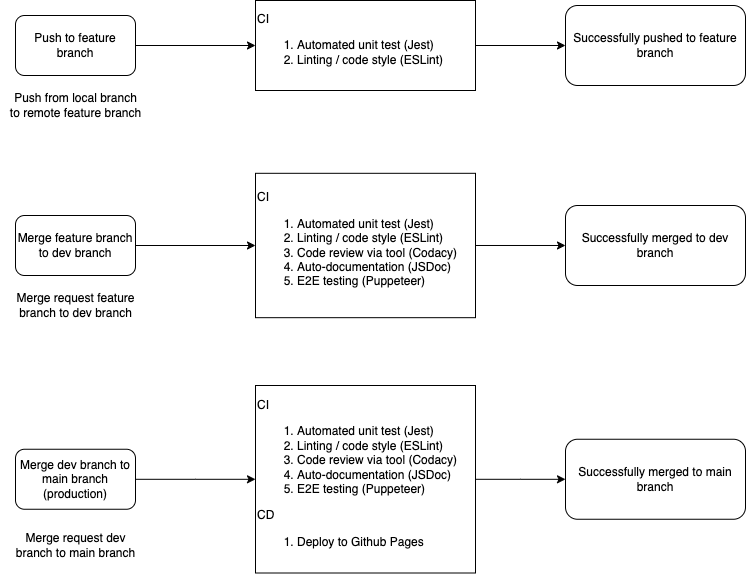
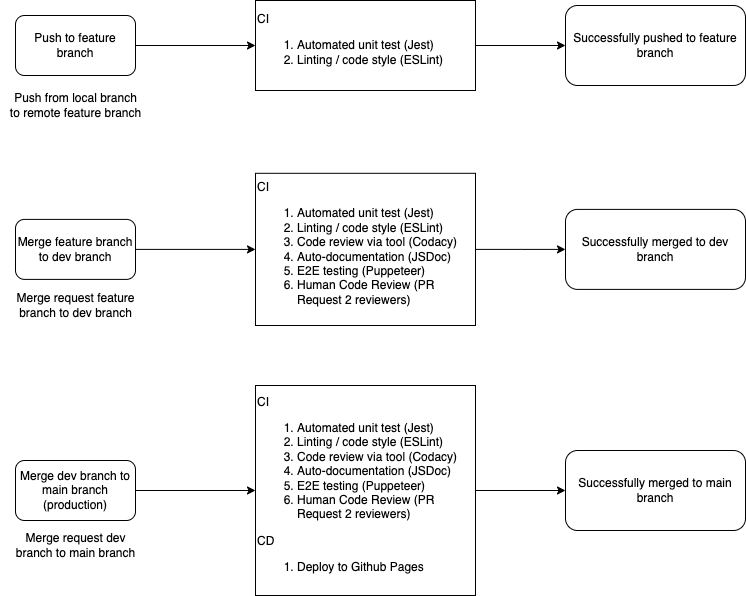
Issue #12: Edit cicd writeup file

diff --git a/admin/cipipeline/cicd.md b/admin/cipipeline/cicd.md
@@ -2,56 +2,71 @@
 
 A diagram of our current pipeline can be seen below: ![current pipeline](./cicd.png)
 
-### Linting via automation and local development:
-Our current pipeline consists of a linting procedure which is done by eslint named `CI - Linter` on github actions. The procedure is activated by github actions on all branches whenever on `push` and `pull request` to `dev` and `main`. More specifically, we specified eslint with the linter configurations from **both** google and eslint:recommended. A complete set of linting/style checks can be found [here](https://github.com/google/eslint-config-google/blob/master/index.js). There is also a pipeline folder located at the root of the repository which locates the config file of the linting procedure, which overrides several rules. Some of which are jsdocs to warning and unused variable as warnings instead of errors. This is because we forsee that we will have the functions and the jsdocs written out before the body of the javascript file is written out. Jsdocs are also warning because we don't want people be stuck on writing out documentation for every function they use (when they push), in the case that their version of the code isn't used. Linting rules can be revised further during development. For developers, they should run `npx eslint --config ./pipeline/.eslintrc.yml ./source/js` to see warning and errors if they want to see their styling errors. Adding `--fix` tag while running eslint locally will fix most errors.  An example of it working is ![code linting](./linter_example/linter_code_example.png) ![linting output](./linter_example/linter_output_example.png), where we can see that `foo` has various errors, and `hello` fixes all of said errors/warnings. By default, the github action is only looking to take javascript files in ./source/js.
+### Linting via Automation and Local Development:
 
+Our current pipeline consists of a linting procedure which is done by eslint named `CI - Linter` on Github Actions. The procedure is activated by github actions on all branches whenever the actions `push` and `pull request` are made to the `dev` and `main` branches. More specifically, we specified eslint with the linter configurations from **both** google and eslint:recommended. A complete set of linting/style checks can be found [here](https://github.com/google/eslint-config-google/blob/master/index.js).
 
-### Code Quality via Tool
-Currently, our pipeline checks code quality via the tool Codacy through the `Codacy Analysis CLI` workflow. This workflow is triggered when pushes are made to the `main`, `dev`, and `cicd_codequalitytool` and pull requests are made to `main` and `dev`. Upon activation of the workflow, Codacy checks out the specific branch or commit that triggered the workflow and performs a static code analysis of the files for that specific branch/commit. Depending on the Codacy configuration, Codacy will identify issues in several areas like code style violations, security vulnerabilities, overly complex code, and duplicated code.
+There is also a pipeline folder located at the root of the repository which locates the config file of the linting procedure, which overrides several rules. Some of which are jsdocs to warning and unused variable as warnings instead of errors. This is because we forsee that we will have the functions and the jsdocs written out before the body of the javascript file is written out. Jsdocs are also set as warnings because we don't want people be stuck on writing out documentation for every function they use (when they push), in the case that their version of the code isn't used. Linting rules can also be revised further during development. 
+ 
+For developers, they should run `npx eslint --config ./pipeline/.eslintrc.yml ./source/js` to see warning and errors if they want to see their styling errors. Adding `--fix` tag while running eslint locally will fix most errors.  An example of it working is shown below, where we can see that `foo` has various errors, and `hello` fixes all of said errors/warnings: ![code linting](./linter_example/linter_code_example.png) ![linting output](./linter_example/linter_output_example.png)
+ 
+By default, the github action for linting is only looking to take javascript files in ./source/js.
 
+### Code Quality via Tool:
 
-### Code Quality via human review
-At present we have implemented a ruleset in GitHub that restricts the push and pull requests to main and dev branches. These branches are protected from deletion and require all commits be made to a non-target branch and submitted via a pull request before they can be merged. Also requires two approving reviews before a pull request can be merged.
+Our pipeline currently checks code quality via the tool Codacy through the `Codacy Analysis CLI` workflow. This workflow is triggered when pushes are made to the `main` and  `dev` branches, and when pull requests are made to `main` and `dev`. Upon activation of the workflow, Codacy checks out the specific branch or commit that triggered the workflow and performs a static code analysis of the specific files involved. Depending on the Codacy configuration, Codacy will identify issues in several areas like code style violations, security vulnerabilities, overly complex code, and duplicated code.
 
-### Documentation generation via automation:
+Currently, Codacy is configured to run with default rules, and assumes that we are using ES6 syntax when it provides its analysis. The rules and what we want Codacy to evaluate as part of its analysis can be configured later to be more specific to our application, once we have started development on the application itself.
 
-The "Generate JSDoc Documentation" GitHub Action automates the creation of HTML documentation from JavaScript code annotations using the JSDoc tool. Triggered by events such as pushes to specified branches (currently main, dev, and cicd_documentation) or pull requests to main and dev, this workflow streamlines documentation processes. Upon activation, the action installs Node.js and JSDoc, then generates documentation from JavaScript files located in the test folder, which is planned to be updated to the actual script folder. The generated documentation is placed in an "out" folder and is presently uploaded as an artifact within the GitHub workflow.
+### Code Quality via Human Review:
 
+At present we have implemented a ruleset in GitHub that restricts the push and pull requests to main and dev branches. These branches are protected from deletion and require all commits be made to a non-target branch and submitted via a pull request before they can be merged. We also require two reviewers to approve the request before a pull request can be merged.
 
+### Documentation Generation via Automation:
 
-### Unit Tests via automation
+The pipeline currently includes automatic document generation. The "Generate JSDoc Documentation" GitHub Action automates the creation of HTML documentation from JavaScript code annotations using the JSDoc tool. This workflow is triggered by events such as pushes to specified branches (`main` and `dev`) or pull requests to `main` and `dev`, and streamlines documentation processes. Currently, upon activation of the worflow, the action installs Node.js and JSDoc, then generates documentation from the JavaScript files located in the test folder. The generated documentation is then placed in an "out" folder and is presently uploaded as an artifact within the GitHub workflow. This test folder will be updated to the actual script folder once we begin development on our application. Currently, the test folder was used to ensure the tool works correctly.
 
-The “Unit Tests” GitHub Action automates unit tests with Jest as the test framework. It is triggered by pushes to branches (such as main and dev), as well as pull requests to main and dev. Upon activation, this action checks out the branch, installs Jest, and runs a script to run every Jest unit test found in the repository, namely those found in the test/ folder. Once the tests have been completed, the results are displayed in the action page, indicating pass or failure. Currently, Jest interprets code as Common JS instead of ES6, which is currently not consistent with our other CI/CD workflows which assume ES6 formatting. As a result, further discussion must be made to determine which format the project must follow in order to avoid incorrect formatting issues.
+### Unit Testing via Automation:
 
-### End to End testing via automation
+We integrate unit testing into our pipeline through the “Unit Tests” GitHub Action which automates unit tests with Jest as the test framework. It is triggered by pushes to the `main`, `dev`, and feature branches, as well as pull requests to `main` and `dev`. Upon activation, this action checks out the branch, installs Jest, and runs a script to run every Jest unit test found in the repository, namely those found in the test/ folder. Once the tests have been completed, the results are displayed in the action page, indicating pass or failure. Currently, Jest interprets code as Common JS instead of ES6, which is currently not consistent with our other CI/CD workflows which assume ES6 formatting. As a result, further discussion must be made to determine which format the project must follow in order to avoid incorrect formatting issues.
 
-This CI/CD pipeline for E2E testing is implemented using GitHub Actions to automate the validation of application functionality. It is triggered by pushes or pull requests to specific branches (main, dev, and cicd_e2e_testing). The pipeline begins by checking out the repository and setting up a Node.js environment. It then installs project dependencies(puppeteer).The E2E tests are executed using a designated script (node test/source.js). Additionally, a failure annotation is added to notify developers about issues, ensuring swift debugging. This workflow ensures consistent testing, integration with the development process, and clear visibility of test results.
+### End to End Testing via Automation:
 
-### GithubPages Deployment via automation
+The CI/CD pipeline for E2E testing is implemented using GitHub Actions to automate the validation of application functionality. It is triggered by pushes or pull requests to specific branches (`main` and `dev`). The pipeline begins by checking out the repository and setting up a Node.js environment. It then installs project dependencies(Puppeteer).The E2E tests are executed using a designated script (`node test/source.js`). Additionally, a failure annotation is added to notify developers about issues, ensuring swift debugging. This workflow ensures consistent testing, integration with the development process, and clear visibility of test results.
 
-Our application is a static web app built with HTML, CSS, and JavaScript. Since it doesn’t require a JavaScript framework like React or VueJS, we needed a simple, reliable, and free platform to host and deploy the app. GitHub Pages allows TAs and our team to easily access, test, and interact with the application. The workflow, defined in .github/workflows/githubpage.yml, automates the deployment process. It triggers on pushes to the main or dev branches or pull requests targeting main. The pipeline consists of two main steps: First, the repository is checked out using actions/checkout@v4, and files are packaged as an artifact using actions/upload-pages-artifact@v3, with the artifact stored in the ./ directory. Then, in the deploy step, the artifact is pulled and deployed to GitHub Pages using actions/deploy-pages@v4. Once deployed, the app is accessible via the configured GitHub Pages URL (https://cse210-team-09.github.io/cse210-fa24-group09/).
+### GithubPages Deployment via Automation:
+
+Our application is a static web app built with HTML, CSS, and JavaScript. Since it doesn’t require a JavaScript framework like React or VueJS, we needed a simple, reliable, and free platform to host and deploy the app. GitHub Pages allows TAs and our team to easily access, test, and interact with the application. The workflow, defined in `.github/workflows/githubpage.yml`, automates the deployment process. It is triggered on pushes to the `main` or `dev` branches or pull requests targeting `main`. 
+
+The pipeline consists of two main steps: First, the repository is checked out using `actions/checkout@v4`, and files are packaged as an artifact using `actions/upload-pages-artifact@v3`, with the artifact stored in the current working directory. Then, in the deploy step, the artifact is pulled and deployed to GitHub Pages using `actions/deploy-pages@v4`. Once deployed, the app is accessible via the configured GitHub Pages URL [linked here](https://cse210-team-09.github.io/cse210-fa24-group09/).
 
 ## Fixes
 
-Currently only ESlint is present inside the package dependencies and rest of the packages (eg: Jest, JSDoc and Puppeteer) are installed globally in the runner. However, we would want to have the other packages also added into the package dependencies. An Issue has been created to fix this and will be resolved in the upcoming sprint. Basically Github actions work but we didn’t specify locally how to run most packages. 
+Currently only ESlint is present inside the package dependencies and rest of the packages (eg: Jest, JSDoc and Puppeteer) are installed globally in the runner. However, we want to have the other packages also added into the package dependencies. A Github Issue has been created to fix this problem and it will be resolved in the upcoming sprint. Essentially, our Github actions and pipeline work but we didn’t specify locally how to run most packages. 
 
-Another fix that we would want is to configure Codacy based on set rules that we agree upon so that the report we get back is more relevant to us, as currently Codacy analyzes the files based on a default set of rules. We also want to configure Codacy so that it ignores markdown files in the repo, as we want it to analyze the quality of only our code files. 
+Another fix that we would want to make in the next sprint is to configure Codacy based on set rules that we agree upon so that the report it returns is more relevant, as currently Codacy utilizes a default set of rules. We also want to use a Codacy config file to make the workflow ignore non-code files in our repository, like our meeting notes, images, etc., as we want it to only analyze the quality of the code files relevant to our application.  
 
-Originally, we had a file with a single sum function as well as a test file for it to verify that Jest works as expected. This test file was written in Common JS format, instead of ES6 import/export format, because Jest assumes the Common JS format by default. The unit test in the file passes successfully, but pushing it to the dev branch caused issues with Codacy due to the format, expecting ES6 import/export as format. To fix this, we removed the sum file and its corresponding test file, leaving only the “test.js” file currently in the test/ folder, which contains a single unit test that always passes inside of it. Since there is no need of importing modules due to the test being in the same file, Codacy passes as expected.
+Originally, we had a file with a single sum function as well as a test file for it to verify that Jest works as expected. This test file was written in Common JS format, instead of ES6 import/export format, because Jest assumes the Common JS format by default. The unit test in the file passes successfully, but pushing it to the dev branch caused issues with Codacy due to the format, as Codacy expected the ES6 import/export format, and thus raised an error when given the Common JS require format. To fix this, we removed the sum file and its corresponding test file, leaving only the `test.js` file currently in the test/ folder, which contains a single unit test that always passes inside of it. Since there is no need of importing modules due to the test being in the same file, Codacy passes as expected.
 
-## Future
+To prevent this issue from occuring again, we will discuss and decide whether we want to follow Common JS or ES6 for our application, and configure all of our tools so that it follows the same syntax rules in the next sprint.
+
+## Future Pipeline
+
+A diagram for how we want to expand on our pipeline and what it would look like with this expansion can be seen below: ![future pipeline](./future_cicd.png)
+
 ### Linting
-For linting, we are currently only linting for javascript files in the source/js directory. In the future, we should also look for formatting inconsistencies in css and html files as well. This likely can be done with ESlint with prettier plugin, with a prettierc.yml file in the root of the directory and have all developers use use the prettier vs code extension. Alternatively, we can also use a prettier ESLint plugin.
+
+For linting, we are currently only linting for Javascript files in the `source/js` directory. In the future, we want to also look for formatting inconsistencies in CSS and HTML files as well. This likely can be done with ESlint by using the prettier plugin, having a `prettierc.yml` file in the root of the directory, and having all developers use the Prettier VSCode extension. Alternatively, we can also use a prettier ESLint plugin to integrate this change.
 
 ### Codacy
-Currently, Codacy assumes that we are using ES6 syntax rules, when some of our code is written in CommonJS due to Jest. Thus, in the future we want to decide if we are going to use ES6 or CommonJS when writing our application, and configure our tools to follow the appropriate syntax.
+Currently, Codacy assumes that we are using ES6 syntax rules, when some of our code is written in CommonJS due to Jest. Thus, in the future we want to decide if we are going to use ES6 or CommonJS when writing our application, and configure our tools to follow the same syntax rules.
 
 ### Documentation
-For the code documentation using JSDoc tool, currently the documentation website generated is uploaded as an artifact within the GitHub workflow. Future enhancements will shift from artifact uploading to integrating a documentation link directly on a dedicated GitHub Page.
+For the code documentation using JSDoc tool, currently the documentation website generated is uploaded as an artifact within the GitHub workflow. Future enhancements will shift from artifact uploading to integrating a documentation link directly on a dedicated GitHub Page, which will also be deployed upon pull requests to the `dev` and `main` branches.
 
 ### E2E 
-For E2E testing using puppeteer, currently the testing is done on a simple test file to check if the tool is working. It should be implemented on the web pages after writing a working code. The testing must be modified based on the working model to check if it is exactly working as required. The workflow is triggered only for pull and push requests to main and dev, need to enable it for feature branches.
+In our current pipeline, E2E testing using Puppeteer is done using a simple test file to check if the tool is working. In the future, we will implement the E2E testing on the application web pages after writing working code during development to ensure that our application is working as expected. The workflow is currently triggered only for pull and push requests to the `main` and `dev` branches, but in the future we also want to enable it to run for pushes to feature branches.
 
 ### Github Pages
 
-For deployment using github pages, currently, the workflow is triggered only for pull requests to the main branch, but we plan to enable deployment for pull requests to the dev branch as well. The reason for this is to allow the team to test and validate changes in a staging environment before merging them into main. This means that any potential issues are caught early, and it improves the overall stability of the main branch.
+Currently, deployment using Github Pages is triggered only for pull requests to the `main` branch, but we plan to enable deployment for pull requests to the `dev` branch as well. The reason for this is to allow the team to test and validate changes in a staging environment before merging into `main`. Doing so means that any potential issues are caught early, and it improves the overall stability of the main branch.
